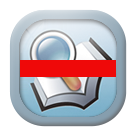
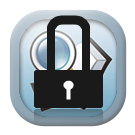
增加掉线检测

Changed region(s): [[0.1481, 0.0889, 0.8593, 0.8889]]

diff --git a/src/openyoudao.py b/src/openyoudao.py
@@ -16,6 +16,7 @@ from pyxhook import pyxhook
 import threading
 import urllib
 import dbm
+import gobject
 
 def HotKey(func):
     AltF8 = 74
@@ -64,6 +65,7 @@ class YouDaoTranslateApi():
             except IOError as e:
                 print e
                 sys.exit(1)
+
     def query(self, word):
         result = {}
         r = self.local_query(word)
@@ -143,6 +145,7 @@ class youdao_translate_UI():
         self.v = View()
         self.pixbuf = gtk.gdk.pixbuf_new_from_file('./youdao.png')
         self.pixbuf_stop = gtk.gdk.pixbuf_new_from_file('./youdao_stop.png')
+        self.pixbuf_disconnect = gtk.gdk.pixbuf_new_from_file('./youdao_disconnect.png')
         self.statusicon = gtk.StatusIcon()
         self.statusicon.set_from_pixbuf(self.pixbuf)
         self.statusicon.connect("popup-menu", self.right_click_event)
@@ -160,6 +163,7 @@ class youdao_translate_UI():
         t = threading.Thread(target=HotKey, args=(self.huaci_event,))
         t.setDaemon(True)
         t.start()
+        gobject.timeout_add(1000, self.is_online)
 
     def _clipboard_changed(self,clipboard, event):
         if self.flags:
@@ -205,13 +209,26 @@ class youdao_translate_UI():
             self.flags = True
             self.statusicon.set_from_pixbuf(self.pixbuf)
 
+    def is_online(self):
+        try:
+            r = requests.get('http://fanyi.youdao.com')
+            if r.status_code == 200:
+                self.flags = True
+                self.statusicon.set_from_pixbuf(self.pixbuf)
+            else:
+                self.flags = False
+                self.statusicon.set_from_pixbuf(self.pixbuf_disconnect)
+        except:
+            self.flags = False
+            self.statusicon.set_from_pixbuf(self.pixbuf_disconnect)
+        #print time.time()
+        return True
+
     def Loop(self):
         gtk.main()
         
 
 if __name__ == '__main__':
-#    translate_UI = youdao_translate_UI()
-#    translate_UI.Loop()
     import os, sys
     pid = os.fork()
     if pid == 0:
